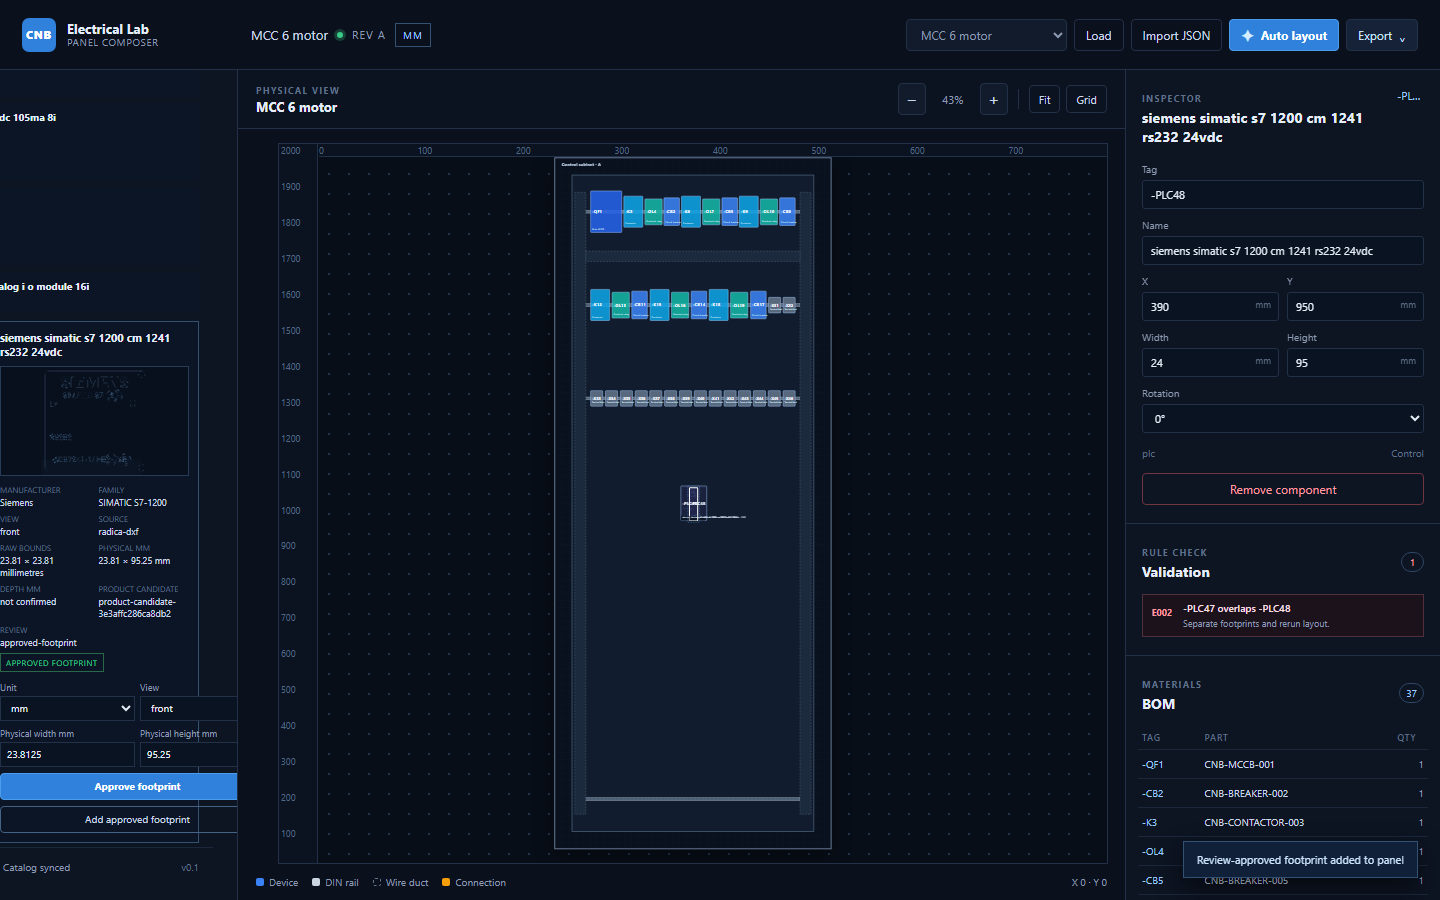
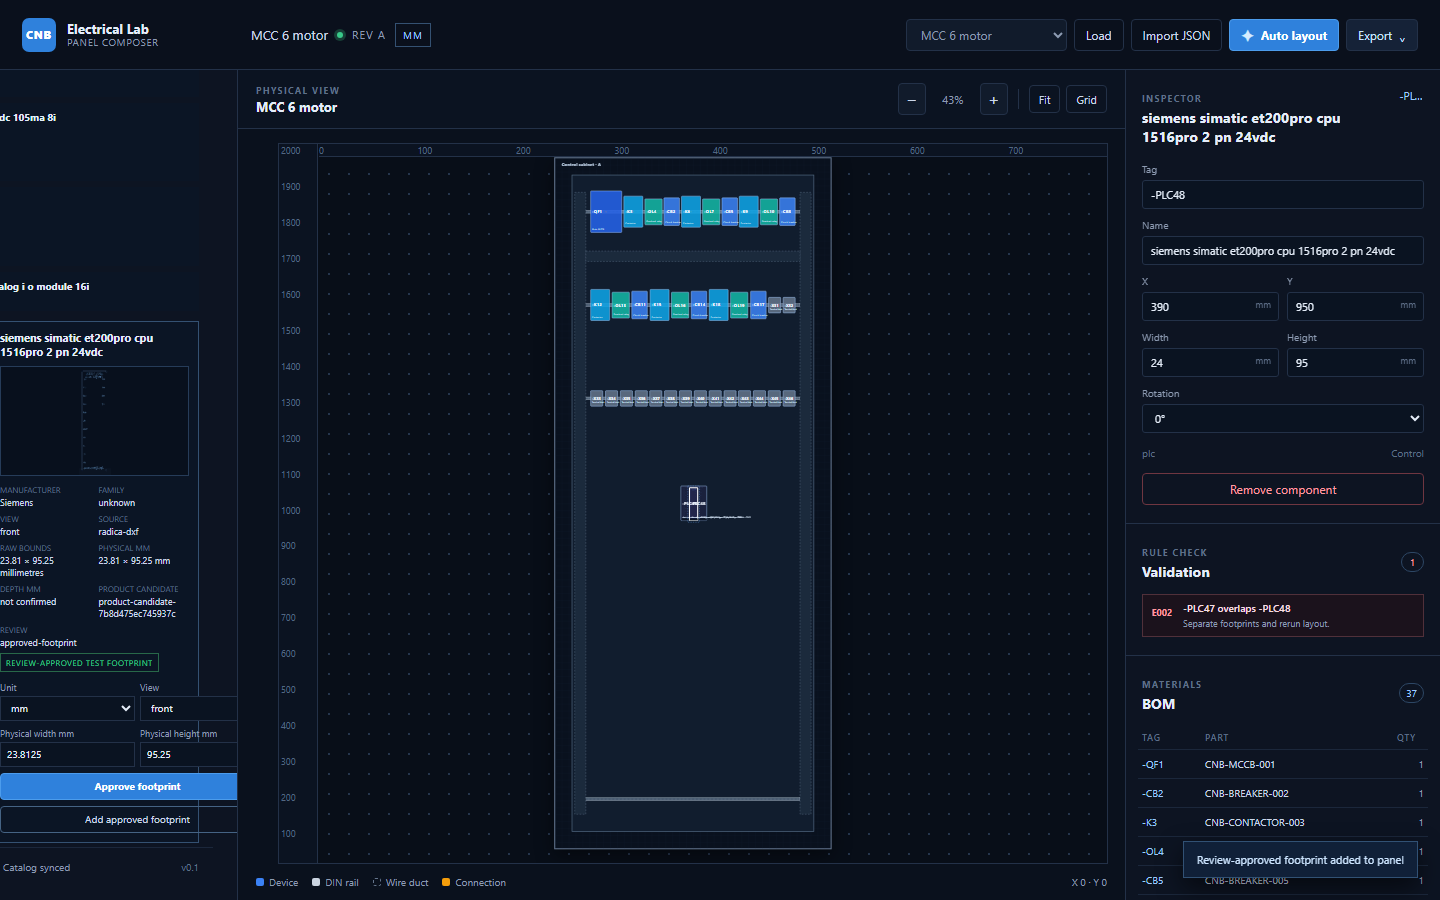
fix: close R1 CAD review and export correctness gaps

diff --git a/apps/web/server.js b/apps/web/server.js
@@ -10,7 +10,9 @@ const root = __dirname;
 const catalogRoot = path.resolve(__dirname, '../../catalog');
 const catalogManifestPath = path.join(catalogRoot, 'generated', 'catalog-assets.json');
 const catalogReviewDir = path.join(catalogRoot, 'review');
-const catalogReviewPath = path.join(catalogReviewDir, 'catalog-review.json');
+const catalogReviewPath = process.env.CNB_CATALOG_REVIEW_PATH
+  ? path.resolve(process.env.CNB_CATALOG_REVIEW_PATH)
+  : path.join(catalogReviewDir, 'catalog-review.json');
 const port = Number(process.env.CNB_WEB_PORT || process.argv[2] || 4173);
 const mime = {
   '.html': 'text/html; charset=utf-8',
@@ -48,7 +50,7 @@ function readReviews() {
 }
 
 function writeReviews(store) {
-  fs.mkdirSync(catalogReviewDir, { recursive: true });
+  fs.mkdirSync(path.dirname(catalogReviewPath), { recursive: true });
   const temporary = `${catalogReviewPath}.${process.pid}.tmp`;
   fs.writeFileSync(temporary, `${JSON.stringify(store, null, 2)}\n`, 'utf8');
   fs.renameSync(temporary, catalogReviewPath);
@@ -82,6 +84,7 @@ function readEffectiveCatalog() {
 }
 
 function validateReview(payload, manifest) {
+  if (!payload || typeof payload !== 'object' || Array.isArray(payload)) return { error: 'review payload must be an object' };
   const sourceAssetId = payload.source_asset_id;
   const record = manifest.records.find((item) => (item.source_asset_id || item.id) === sourceAssetId);
   if (!record) return { error: 'unknown source_asset_id' };
@@ -89,8 +92,35 @@ function validateReview(payload, manifest) {
   if (!['front', 'side', 'top'].includes(payload.confirmed_view)) return { error: 'approval requires front, side, or top view' };
   const width = Number(payload.physical_width_mm); const height = Number(payload.physical_height_mm);
   if (!Number.isFinite(width) || !Number.isFinite(height) || width <= 0 || height <= 0) return { error: 'physical_width_mm and physical_height_mm must be greater than zero' };
+  const depth = payload.physical_depth_mm == null || payload.physical_depth_mm === '' ? null : Number(payload.physical_depth_mm);
+  if (depth !== null && (!Number.isFinite(depth) || depth <= 0)) return { error: 'physical_depth_mm must be greater than zero when provided' };
   if (record.drawing_sheet) return { error: 'drawing-sheet assets require manual extraction before approval' };
-  return { record, width, height };
+  return { record, width, height, depth };
+}
+
+function effectiveRecordForAsset(sourceAssetId, catalog) {
+  return catalog.records.find((record) => (record.source_asset_id || record.id) === sourceAssetId) || null;
+}
+
+function enforceCadApproval(model, catalog) {
+  for (const component of model.components) {
+    const sourceAssetId = component.assetId || component.source_asset_id || null;
+    const footprintRef = component.footprintRef || component.footprint_ref || null;
+    // Legacy/internal catalog refs such as `footprints/MCB_3P_16A` are not
+    // imported CAD assets. A persisted physical footprint must carry its
+    // source asset ID so the server can verify both sides of the reference.
+    if (!sourceAssetId && (!footprintRef || !String(footprintRef).startsWith('footprint-'))) continue;
+    const record = effectiveRecordForAsset(sourceAssetId, catalog);
+    if (!record || record.review_state !== 'approved-footprint' || !record.physical_footprint_id || footprintRef !== record.physical_footprint_id) {
+      return { error: 'unapproved CAD asset in authoritative export', component_id: component.id, source_asset_id: sourceAssetId, footprint_ref: footprintRef };
+    }
+    // Authoritative export uses persisted physical dimensions, never client dimensions.
+    component.assetId = sourceAssetId;
+    component.footprintRef = record.physical_footprint_id;
+    component.width = Number(record.physical_width_mm);
+    component.height = Number(record.physical_height_mm);
+  }
+  return null;
 }
 
 const server = http.createServer(async (request, response) => {
@@ -106,9 +136,16 @@ const server = http.createServer(async (request, response) => {
       if (!fs.existsSync(catalogManifestPath)) return send(response, 404, JSON.stringify({ error: 'catalog manifest missing' }), mime['.json']);
       const payload = JSON.parse(await bodyFrom(request)); const manifest = JSON.parse(fs.readFileSync(catalogManifestPath, 'utf8')); const checked = validateReview(payload, manifest);
       if (checked.error) return send(response, 400, JSON.stringify({ error: checked.error }), mime['.json']);
-      const store = readReviews(); const existingIndex = store.reviews.findIndex((review) => review.source_asset_id === payload.source_asset_id); const existing = existingIndex >= 0 ? store.reviews[existingIndex] : null; const revision = (existing?.review_provenance?.review_revision || 0) + 1;
-      const footprintId = existing && existing.physical_footprint && existing.physical_footprint.width_mm === checked.width && existing.physical_footprint.height_mm === checked.height && existing.confirmed_view === payload.confirmed_view ? existing.physical_footprint_id : stableId('footprint', payload.source_asset_id, payload.representation_id, payload.confirmed_view, checked.width, checked.height, payload.physical_depth_mm ?? '');
-      const review = { source_asset_id: payload.source_asset_id, representation_id: payload.representation_id, review_state: 'approved-footprint', confirmed_view: payload.confirmed_view, physical_width_mm: checked.width, physical_height_mm: checked.height, physical_depth_mm: payload.physical_depth_mm == null || payload.physical_depth_mm === '' ? null : Number(payload.physical_depth_mm), unit_confidence: 'confirmed-by-review', unit_source: 'reviewer', source_units: 'millimetres', product_identity_id: payload.product_identity_id || null, physical_footprint_id: footprintId, physical_footprint: { physical_footprint_id: footprintId, source_asset_id: payload.source_asset_id, representation_id: payload.representation_id, view: payload.confirmed_view, width_mm: checked.width, height_mm: checked.height, depth_mm: payload.physical_depth_mm == null || payload.physical_depth_mm === '' ? null : Number(payload.physical_depth_mm), source_to_physical: { scale_x: 'reviewer-confirmed', scale_y: 'reviewer-confirmed', translation_x: 0, translation_y: 0 }, provenance: { unit_source: 'reviewer', review_source: 'manual-web-review' } }, review_provenance: { review_source: 'manual-web-review', reviewed_at: payload.reviewed_at || new Date().toISOString(), review_revision: revision } };
+      const store = readReviews(); const existingIndex = store.reviews.findIndex((review) => review.source_asset_id === payload.source_asset_id); const existing = existingIndex >= 0 ? store.reviews[existingIndex] : null;
+      const sameValues = existing && existing.representation_id === payload.representation_id && existing.confirmed_view === payload.confirmed_view && existing.physical_width_mm === checked.width && existing.physical_height_mm === checked.height && (existing.physical_depth_mm ?? null) === checked.depth;
+      if (sameValues) return send(response, 200, JSON.stringify({ ok: true, idempotent: true, review: existing, catalog: readEffectiveCatalog() }), mime['.json']);
+      const revision = (existing?.review_provenance?.review_revision || 0) + 1;
+      const sourceBounds = checked.record.source_bbox || checked.record.bbox || {};
+      const scaleX = Number(sourceBounds.width) > 0 ? checked.width / Number(sourceBounds.width) : null;
+      const scaleY = Number(sourceBounds.height) > 0 ? checked.height / Number(sourceBounds.height) : null;
+      if (!Number.isFinite(scaleX) || !Number.isFinite(scaleY)) return send(response, 400, JSON.stringify({ error: 'source bbox is not suitable for a physical transform' }), mime['.json']);
+      const footprintId = stableId('footprint', payload.source_asset_id, payload.representation_id, payload.confirmed_view, checked.width, checked.height, checked.depth ?? '');
+      const review = { source_asset_id: payload.source_asset_id, representation_id: payload.representation_id, review_state: 'approved-footprint', confirmed_view: payload.confirmed_view, physical_width_mm: checked.width, physical_height_mm: checked.height, physical_depth_mm: checked.depth, unit_confidence: 'confirmed-by-review', unit_source: 'reviewer', source_units: 'millimetres', product_identity_id: payload.product_identity_id || null, physical_footprint_id: footprintId, physical_footprint: { physical_footprint_id: footprintId, source_asset_id: payload.source_asset_id, representation_id: payload.representation_id, view: payload.confirmed_view, width_mm: checked.width, height_mm: checked.height, depth_mm: checked.depth, source_to_physical: { scale_x: scaleX, scale_y: scaleY, translate_x_mm: -Number(sourceBounds.min_x || 0) * scaleX, translate_y_mm: -Number(sourceBounds.min_y || 0) * scaleY, source_bbox: { min_x: Number(sourceBounds.min_x || 0), min_y: Number(sourceBounds.min_y || 0), width: Number(sourceBounds.width), height: Number(sourceBounds.height) } }, provenance: { unit_source: 'reviewer', review_source: 'manual-web-review' } }, review_provenance: { review_source: 'manual-web-review', reviewed_at: payload.reviewed_at || new Date().toISOString(), review_revision: revision } };
       if (existing) store.history.push(existing);
       if (existingIndex >= 0) store.reviews[existingIndex] = review; else store.reviews.push(review);
       store.reviews.sort((a, b) => a.source_asset_id.localeCompare(b.source_asset_id)); store.history.sort((a, b) => a.source_asset_id.localeCompare(b.source_asset_id) || (a.review_provenance?.review_revision || 0) - (b.review_provenance?.review_revision || 0)); writeReviews(store);
@@ -129,6 +166,10 @@ const server = http.createServer(async (request, response) => {
       const candidate = payload.model || payload;
       const model = normalizeModel(candidate && (candidate.devices || candidate.schema_version || candidate.schemaVersion === 'eir.v1') ? adaptEir(candidate) : candidate);
       const format = payload.format || 'dxf';
+      if (format === 'dxf' || format === 'svg' || format === 'audit') {
+        const gate = enforceCadApproval(model, readEffectiveCatalog());
+        if (gate) return send(response, 400, JSON.stringify(gate), mime['.json']);
+      }
       if (format === 'dxf') return send(response, 200, exportDxf(model), mime['.dxf']);
       if (format === 'svg') return send(response, 200, exportSvg(model), mime['.svg']);
       if (format === 'audit') return send(response, 200, JSON.stringify(auditDxf(exportDxf(model)), null, 2), mime['.json']);

diff --git a/apps/web/app.js b/apps/web/app.js
@@ -199,7 +199,7 @@
 
   function renderAssetDetail() {
     const detail = $('#assetDetail'); const asset = state.assetCatalog.find((candidate) => assetKey(candidate) === state.selectedAssetId); if (!detail || !asset) { if (detail) detail.hidden = true; return; }
-    const source = asset.source_bbox || asset.bbox || {}; const approved = assetApproved(asset); detail.hidden = false; detail.innerHTML = `<h3>${asset.candidate_description || asset.relative_path}</h3><img src="${assetPreview(asset)}" alt="CAD preview"><dl><div><dt>Manufacturer</dt><dd>${asset.manufacturer || 'unknown'}</dd></div><div><dt>Family</dt><dd>${asset.product_family || 'unknown'}</dd></div><div><dt>View</dt><dd>${asset.candidate_view || 'unknown'}</dd></div><div><dt>Source</dt><dd>${asset.source_group}</dd></div><div><dt>Raw bounds</dt><dd>${Number(source.width || 0).toFixed(2)} × ${Number(source.height || 0).toFixed(2)} ${asset.source_units || 'source units'}</dd></div><div><dt>Physical mm</dt><dd>${asset.physical_width_mm ? `${Number(asset.physical_width_mm).toFixed(2)} × ${Number(asset.physical_height_mm).toFixed(2)} mm` : 'not confirmed'}</dd></div><div><dt>Depth mm</dt><dd>${asset.physical_depth_mm || 'not confirmed'}</dd></div><div><dt>Product candidate</dt><dd>${asset.product_id || 'unknown'}</dd></div><div><dt>Review</dt><dd>${asset.review_state || 'needs-review'}</dd></div></dl><span class="asset-badge ${approved ? 'approved' : ''}">${approved ? 'APPROVED FOOTPRINT' : 'PREVIEW ONLY · NOT AUTHORITATIVE'}</span>${asset.drawing_sheet ? '<span class="asset-badge">DRAWING SHEET · MANUAL EXTRACTION</span>' : ''}<form class="review-form" id="assetReviewForm"><div class="form-grid"><label>Unit<select name="unit"><option value="">Unknown</option><option value="mm">mm</option></select></label><label>View<select name="view"><option value="">Unknown</option><option value="front">front</option><option value="side">side</option><option value="top">top</option></select></label></div><div class="form-grid"><label>Physical width mm<input name="width" type="number" min="0.01" step="0.0001"></label><label>Physical height mm<input name="height" type="number" min="0.01" step="0.0001"></label></div><button class="button primary" type="submit">Approve footprint</button><button class="button subtle" id="addPreviewAsset" type="button">Add preview-only component</button></form>`;
+    const source = asset.source_bbox || asset.bbox || {}; const approved = assetApproved(asset); detail.hidden = false; detail.innerHTML = `<h3>${asset.candidate_description || asset.relative_path}</h3><img src="${assetPreview(asset)}" alt="CAD preview"><dl><div><dt>Manufacturer</dt><dd>${asset.manufacturer || 'unknown'}</dd></div><div><dt>Family</dt><dd>${asset.product_family || 'unknown'}</dd></div><div><dt>View</dt><dd>${asset.candidate_view || 'unknown'}</dd></div><div><dt>Source</dt><dd>${asset.source_group}</dd></div><div><dt>Raw bounds</dt><dd>${Number(source.width || 0).toFixed(2)} × ${Number(source.height || 0).toFixed(2)} ${asset.source_units || 'source units'}</dd></div><div><dt>Physical mm</dt><dd>${asset.physical_width_mm ? `${Number(asset.physical_width_mm).toFixed(2)} × ${Number(asset.physical_height_mm).toFixed(2)} mm` : 'not confirmed'}</dd></div><div><dt>Depth mm</dt><dd>${asset.physical_depth_mm || 'not confirmed'}</dd></div><div><dt>Product candidate</dt><dd>${asset.product_id || 'unknown'}</dd></div><div><dt>Review</dt><dd>${asset.review_state || 'needs-review'}</dd></div></dl><span class="asset-badge ${approved ? 'approved' : ''}">${approved ? 'REVIEW-APPROVED TEST FOOTPRINT' : 'PREVIEW ONLY · NOT AUTHORITATIVE'}</span>${asset.drawing_sheet ? '<span class="asset-badge">DRAWING SHEET · MANUAL EXTRACTION</span>' : ''}<form class="review-form" id="assetReviewForm"><div class="form-grid"><label>Unit<select name="unit"><option value="">Unknown</option><option value="mm">mm</option></select></label><label>View<select name="view"><option value="">Unknown</option><option value="front">front</option><option value="side">side</option><option value="top">top</option></select></label></div><div class="form-grid"><label>Physical width mm<input name="width" type="number" min="0.01" step="0.0001"></label><label>Physical height mm<input name="height" type="number" min="0.01" step="0.0001"></label></div><button class="button primary" type="submit">Approve footprint</button><button class="button subtle" id="addPreviewAsset" type="button">Add preview-only component</button></form>`;
     const form = $('#assetReviewForm'); form.elements.unit.value = asset.unit_confidence === 'confirmed-from-dxf' || asset.unit_confidence === 'confirmed-by-review' ? 'mm' : ''; form.elements.view.value = asset.candidate_view || ''; form.elements.width.value = asset.physical_width_mm || ''; form.elements.height.value = asset.physical_height_mm || ''; $('#addPreviewAsset').textContent = approved ? 'Add approved footprint' : 'Add preview-only component';
     form.addEventListener('submit', async (event) => { event.preventDefault(); const unit = form.elements.unit.value; const width = finite(form.elements.width.value, 0); const height = finite(form.elements.height.value, 0); const view = form.elements.view.value; if (asset.drawing_sheet) { showToast('Drawing sheet requires manual extraction before approval', 'error'); return; } if (!unit || unit !== 'mm' || width <= 0 || height <= 0 || !view) { showToast('Approval requires mm unit, physical bounds and a view', 'error'); return; } const response = await fetch('/api/catalog/reviews', { method: 'POST', headers: { 'content-type': 'application/json' }, body: JSON.stringify({ source_asset_id: assetKey(asset), representation_id: asset.representation_id, confirmed_view: view, physical_width_mm: width, physical_height_mm: height }) }); const payload = await response.json(); if (!response.ok) { showToast(`Approval failed: ${payload.error || response.status}`, 'error'); return; } const updated = payload.catalog.records.find((item) => assetKey(item) === assetKey(asset)); if (updated) { const index = state.assetCatalog.findIndex((item) => assetKey(item) === assetKey(asset)); state.assetCatalog[index] = updated; } renderAssetLibrary(); renderAssetDetail(); showToast('Review-approved test footprint persisted'); });
     $('#addPreviewAsset').addEventListener('click', () => addAssetComponent(asset, assetApproved(asset)));

diff --git a/apps/web/eir-adapter.js b/apps/web/eir-adapter.js
@@ -54,6 +54,10 @@
         terminals: terminalIds.map((terminal) => typeof terminal === 'string' ? { id: terminal } : terminal),
         mounting: first(device.mounting, part.mounting, 'DIN'),
         color: first(device.color, part.color, '#3b82f6'),
+        assetId: first(device.assetId, device.source_asset_id, part.assetId, part.source_asset_id, null),
+        source_asset_id: first(device.source_asset_id, device.assetId, part.source_asset_id, part.assetId, null),
+        footprintRef: first(device.footprintRef, device.footprint_ref, part.footprintRef, part.footprint_ref, null),
+        footprint_ref: first(device.footprint_ref, device.footprintRef, part.footprint_ref, part.footprintRef, null),
         metadata: { sourceEirId: deviceId, partId: first(device.partId, part.id, null) },
       };
     });

diff --git a/packages/cad-export/index.js b/packages/cad-export/index.js
@@ -88,6 +88,10 @@ function normalizeModel(input = {}) {
       terminals: Array.isArray(component.terminals) ? component.terminals : [],
       mounting: component.mounting || 'DIN',
       color: component.color || '#3b82f6',
+      assetId: component.assetId || component.source_asset_id || null,
+      source_asset_id: component.source_asset_id || component.assetId || null,
+      footprintRef: component.footprintRef || component.footprint_ref || null,
+      footprint_ref: component.footprint_ref || component.footprintRef || null,
       metadata: component.metadata || {},
     };
   });

diff --git a/docs/architecture/CATALOG_REVIEW_PERSISTENCE.md b/docs/architecture/CATALOG_REVIEW_PERSISTENCE.md
@@ -19,10 +19,17 @@ not point at a raw DXF or embed CAD entities in canonical EIR.
 `POST /api/catalog/reviews` rejects unknown assets or representations, drawing
 sheets, missing front/side/top view and non-positive physical dimensions. The
 store is serialized deterministically and written with temp-file plus rename.
-Updating a review preserves the previous record in `history` and increments
+Submitting the same engineering values is idempotent; changing view,
+dimensions or depth preserves the previous record in `history` and increments
 `review_revision`. Re-running the audit or restarting the server therefore
 preserves approvals while allowing forensic output to be regenerated.
 
-The current demo approval is explicitly a **review-approved test footprint**.
-It demonstrates persistence and coordinate/export mechanics; it is not an
-externally verified Siemens vendor footprint.
+Tests set `CNB_CATALOG_REVIEW_PATH` to a temporary store. The production store
+is intentionally clean until a human approves a real asset. Authoritative DXF,
+SVG and audit exports verify the effective catalog server-side and reject an
+asset without a matching persisted `physical_footprint_id`.
+
+Synthetic approvals used by tests are explicitly **review-approved test
+footprints** and are never retained in the production review store. They
+demonstrate persistence and coordinate/export mechanics; they are not
+externally verified Siemens vendor footprints.

diff --git a/docs/research/SIEMENS_DXF_CATALOG_AUDIT.md b/docs/research/SIEMENS_DXF_CATALOG_AUDIT.md
@@ -87,10 +87,11 @@ forensic output and survives audit regeneration.
   footprint.
 - Needs cleanup/review: annotation-bearing files, INSERT-heavy files, all
   unknown-view assets, and any unitless/undeclared asset used for manufacturing.
-- Approved footprints in this snapshot: one manually review-approved test
-  footprint in the separate review overlay. Approval requires reviewer-
-  supplied mm bounds and a view, with provenance recorded. It is not an
-  externally verified Siemens vendor footprint.
+- Approved footprints in the committed production snapshot: none. Synthetic
+  review-approved test footprints are created only in temporary test stores.
+  Approval requires reviewer-supplied mm bounds and a view, with provenance
+  recorded. Such test data is not an externally verified Siemens vendor
+  footprint.
 
 Initial workflow states are `needs-unit-review` for 48 files and
 `needs-product-review` for the 10 declared-mm drawing sheets. The 46-file

diff --git a/docs/architecture/CAD_ASSET_MODEL.md b/docs/architecture/CAD_ASSET_MODEL.md
@@ -47,6 +47,12 @@ authoritative layout, collision checks and manufacturing DXF/SVG export.
 Reviewer decisions are stored in a separate review overlay; generated audit
 output is never mutated by a browser approval.
 
+The source-to-physical mapping is numeric: `scale_x` and `scale_y` are
+physical dimensions divided by source bbox dimensions, while
+`translate_x_mm` and `translate_y_mm` normalize the source bbox minimum to the
+physical origin. Therefore source bbox min/max map to `(0, 0)` and
+`(width_mm, height_mm)` within tolerance.
+
 ## Transform contract
 
 The ingestion renderer computes a source-space bounds box and derives a vector
